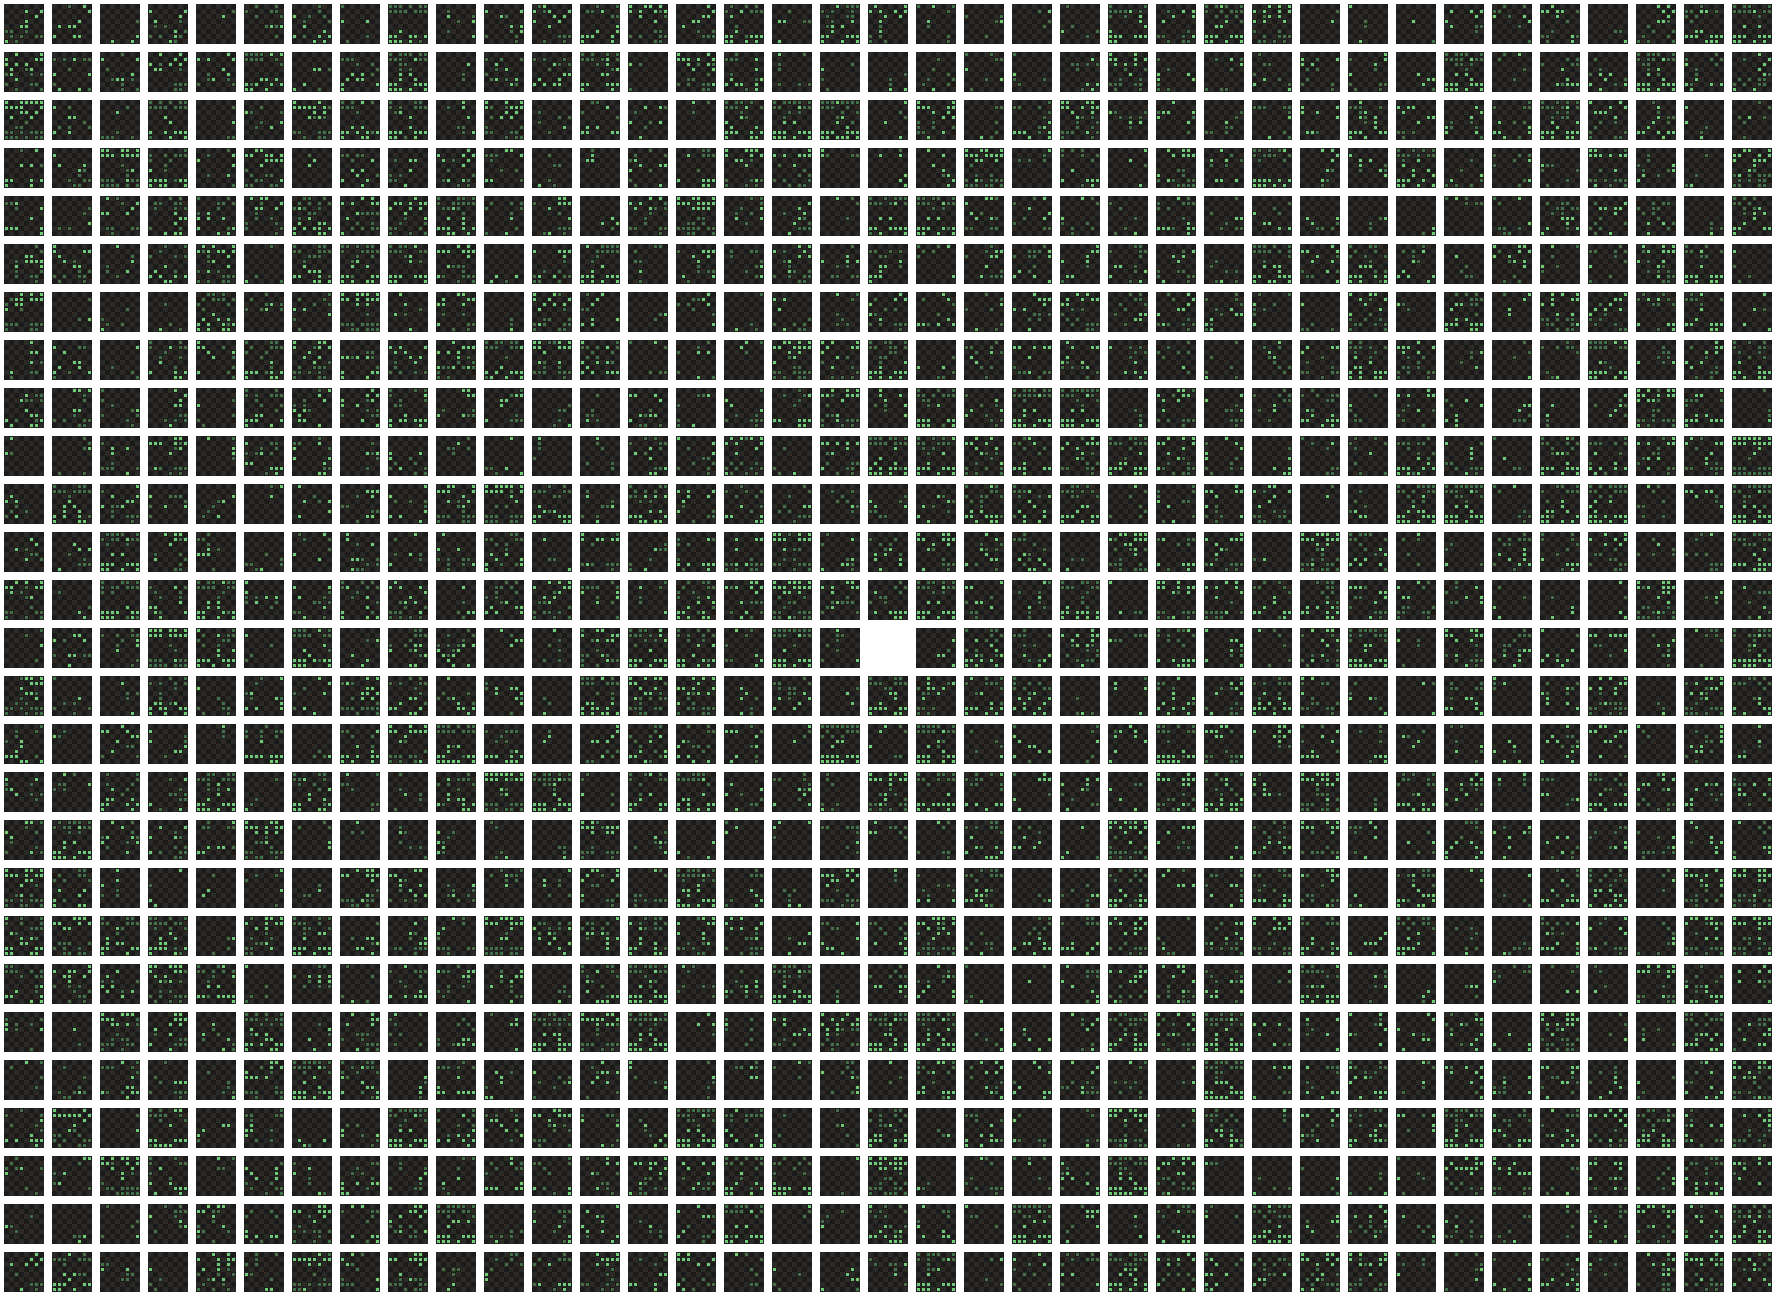
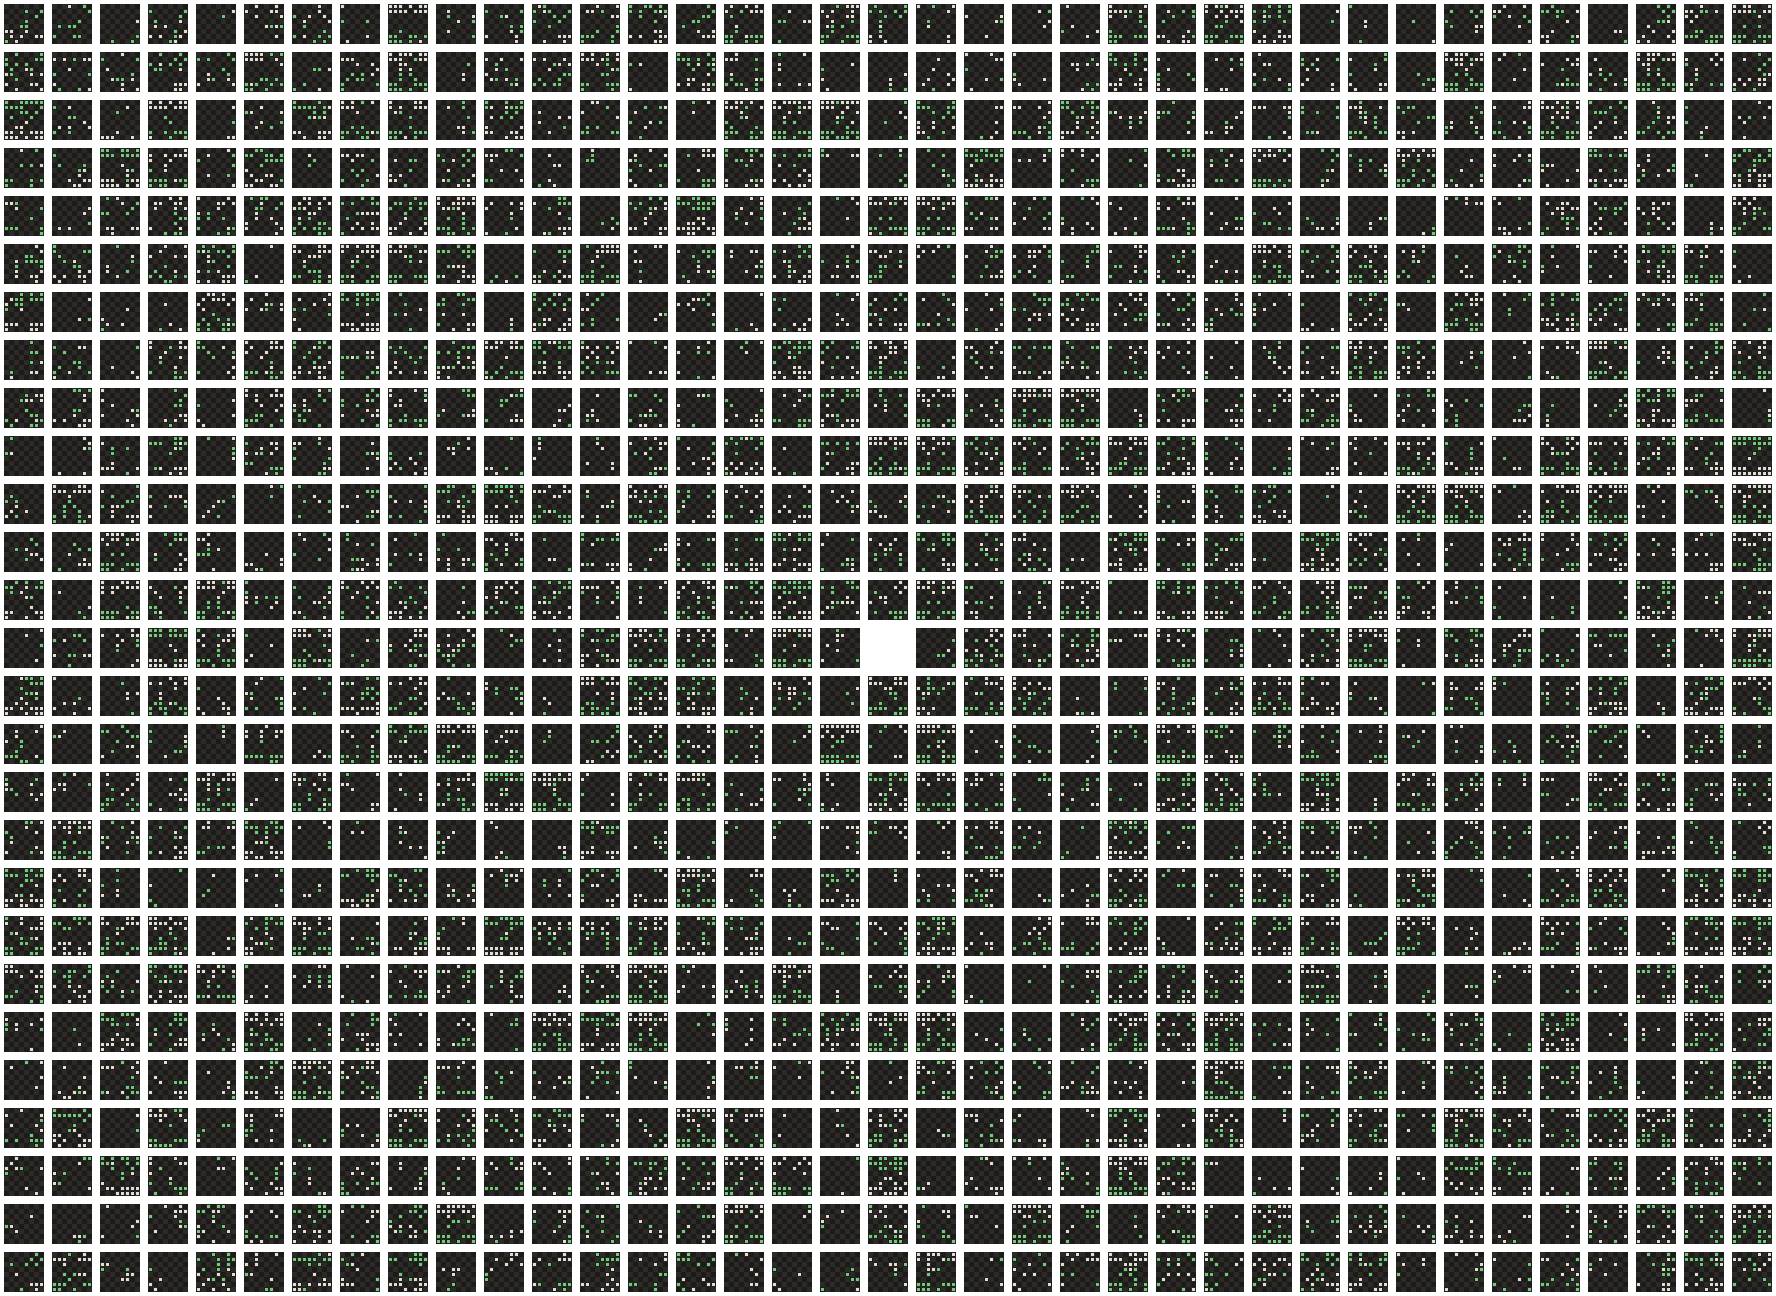
Chess story: the thousand boards in green and ivory; the strangers' countries by flag alone

Changed region(s): [[0.4336, 0.463, 0.4645, 0.4938]]

diff --git a/src/components/stories/chess/scenes.js b/src/components/stories/chess/scenes.js
@@ -65,7 +65,8 @@ const Flag = ({ of }) => (
 
 // The phone of Part I again, before a game: the board set up, the clocks full.
 // Only the opponent changes, as the reader scrolls: on the phone's screen, and
-// beside it, large enough to read.
+// beside it, large enough to read. The country is shown by its flag alone;
+// its name is in the scene's description, for those who cannot see the flag.
 // Until one is `matched`, there is nobody on the other side yet.
 const Strangers = ({ step, matched }) => {
   const since = useSince(step, EACH, STRANGERS.length - 1)
@@ -109,7 +110,7 @@ const Strangers = ({ step, matched }) => {
           <b>{each.name}</b>
           <span>
             <Flag of={each.flag} />
-            {each.rating} · {each.country}
+            {each.rating}
           </span>
           {each.figure ? (
             <img
@@ -164,7 +165,7 @@ export const People = () => (
         <Show on={step >= 8} className={c("ch-minis")}>
           <img
             src="/images/stories/chess/boards.webp"
-            alt="Hundreds of tiny chessboards in a grid: how the author’s last thousand games ended, her pieces in bright green, her opponents’ in a darker green."
+            alt="Hundreds of tiny chessboards in a grid: how the author’s last thousand games ended, her pieces in green, her opponents’ in ivory."
             width={1776}
             height={1296}
             decoding="async"

diff --git a/scripts/stories/chess/README.md b/scripts/stories/chess/README.md
@@ -164,8 +164,8 @@ in a large and a phone width:
   strangers" in the data-stories `PROMPTS.md`.
 - `boards`: "the board of a thousand games": how the author's last 998 games
   ended, each a tiny board, in a grid of 37 by 27 whose middle place is left
-  for the club's board. The pieces are dots of the site's green for data, hers
-  bright, her opponents' darker. `make-boards.cjs` draws it from final positions exported
+  for the club's board. Her pieces are dots of the site's green for data, her
+  opponents' ivory. `make-boards.cjs` draws it from final positions exported
   in the data-stories repository (`chess-story/analysis/export_boards.py`:
   the positions and the colour she played, nothing else):
 
@@ -244,8 +244,8 @@ What the scene shows at each step is in `VIEWS`:
    on the other side yet.
 2. `strangers`, `strangers-where`, `strangers-moment`: three short questions,
    one scroll each. Meanwhile the opponent changes, on the phone's screen and,
-   large enough to read, beside it: a username, a rating, a country
-   (`STRANGERS`). The four are invented, and were checked not to be anyone's
+   large enough to read, beside it: a username, a rating, and a country by
+   its flag alone (`STRANGERS`). The four are invented, and were checked not to be anyone's
    username. Each has a small picture, `figure`.
 3. `club`: the phone goes and the club's board comes up out of its board;
    "London, early 2026" stands beside it, and the opening is played (below).
